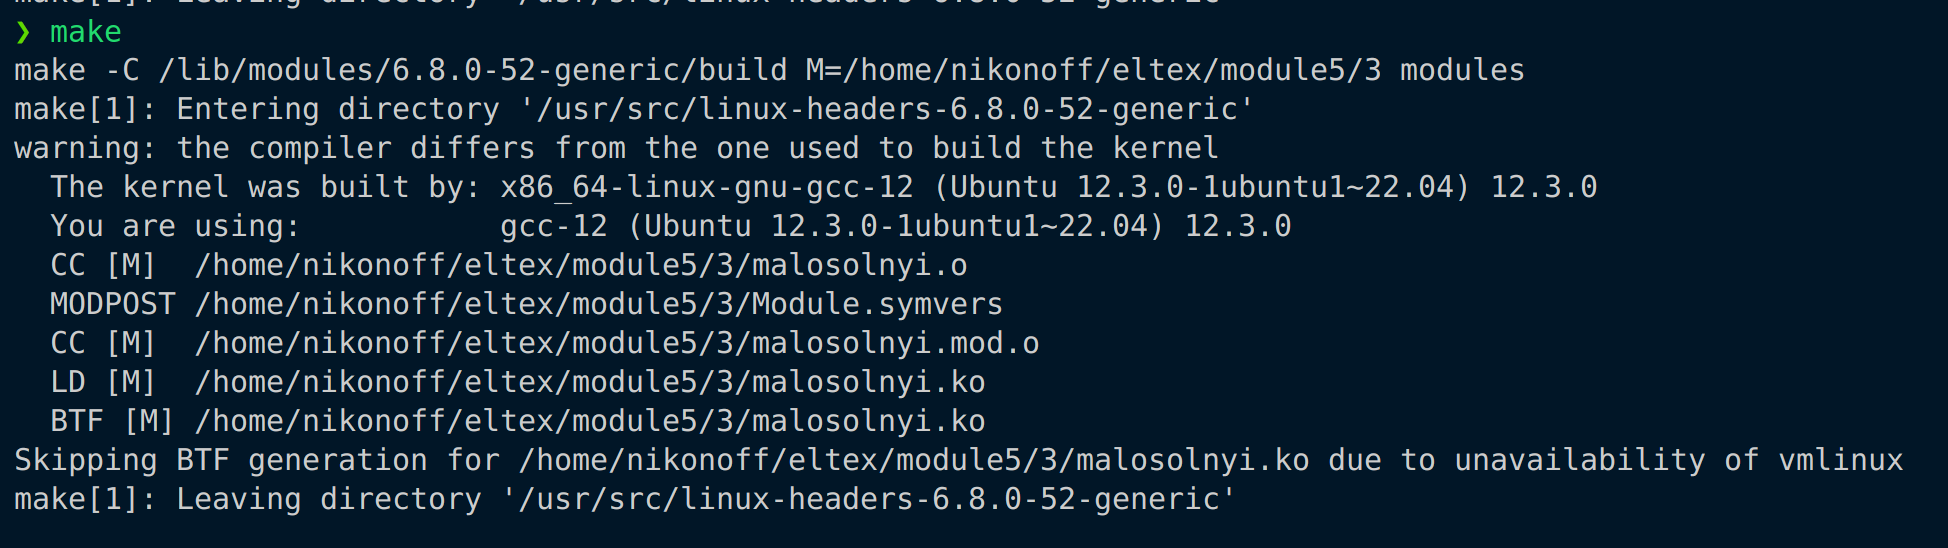
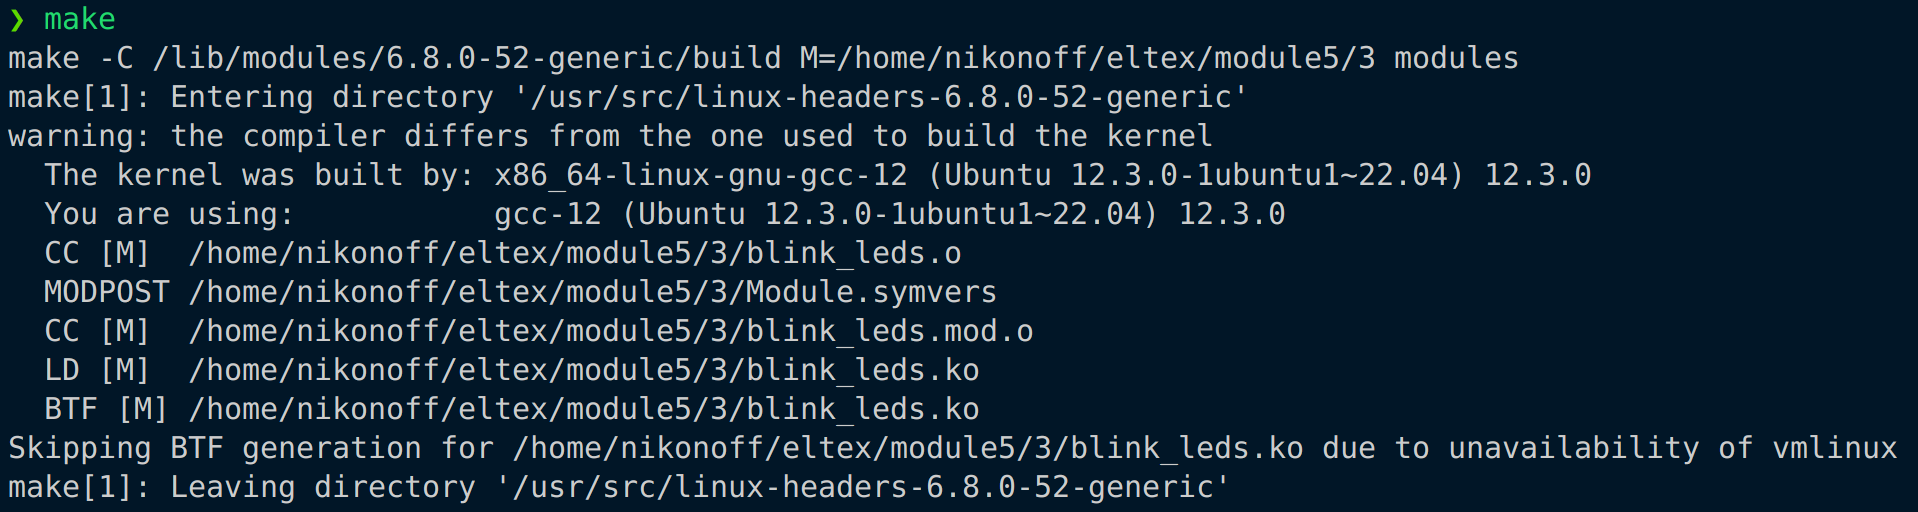
module 5 rename files

diff --git a/module5/3/blink_leds.c b/module5/3/blink_leds.c
@@ -1,10 +1,10 @@
 #include <linux/module.h>
 #include <linux/configfs.h>
 #include <linux/init.h>
-#include <linux/tty.h> /* For fg_console, MAX_NR_CONSOLES */
-#include <linux/kd.h>  /* For KDSETLED */
+#include <linux/tty.h>
+#include <linux/kd.h> 
 #include <linux/vt.h>
-#include <linux/console_struct.h> /* For vc_cons */
+#include <linux/console_struct.h> 
 #include <linux/vt_kern.h>
 #include <linux/timer.h>
 #include <linux/printk.h>

diff --git a/module5/4/chardev.c b/module5/4/chardev.c
@@ -4,7 +4,6 @@
 #include <linux/init.h>
 #include <linux/kernel.h>
 #include <linux/module.h>
-#include <linux/mutex.h>
 #include <linux/slab.h>
 #include <linux/uaccess.h>
 
